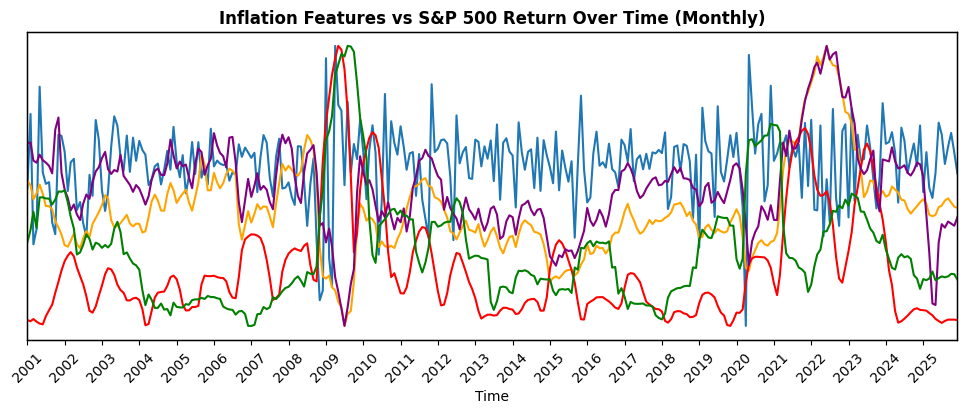
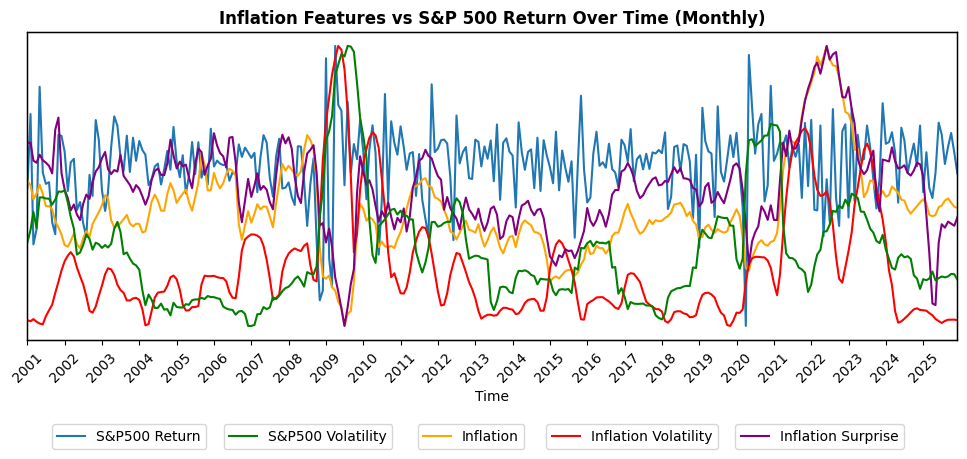
Amended format

Changed region(s): [[0.0, 0.0, 0.9928, 0.9855], [0.5895, 0.2029, 0.6205, 0.2319]]

diff --git a/docs/Scripts/Analysis.html b/docs/Scripts/Analysis.html
@@ -458,45 +458,46 @@ numpy: 2.4.4</code></pre>
 </div>
 </div>
 </div>
-<div id="09360ec7" class="cell" data-execution_count="261">
+<div id="09360ec7" class="cell" data-execution_count="31">
 <div class="code-copy-outer-scaffold"><div class="sourceCode cell-code" id="cb10"><pre class="sourceCode python code-with-copy"><code class="sourceCode python"><span id="cb10-1"><a href="#cb10-1" aria-hidden="true" tabindex="-1"></a><span class="co">#Time series comparing all previously mentioned components of inflation over time on a monthly basis</span></span>
 <span id="cb10-2"><a href="#cb10-2" aria-hidden="true" tabindex="-1"></a>plt.figure(figsize<span class="op">=</span>(<span class="dv">12</span>,<span class="dv">4</span>))</span>
 <span id="cb10-3"><a href="#cb10-3" aria-hidden="true" tabindex="-1"></a>ax1 <span class="op">=</span> sns.lineplot(x<span class="op">=</span>df.index, y<span class="op">=</span>df.SP500_monthly_return, label <span class="op">=</span> <span class="st">"S&amp;P500 Return"</span>) <span class="co">#plots S&amp;P500 return over time</span></span>
 <span id="cb10-4"><a href="#cb10-4" aria-hidden="true" tabindex="-1"></a>ax1.grid(<span class="va">False</span>) <span class="co">#Removes grid lines</span></span>
 <span id="cb10-5"><a href="#cb10-5" aria-hidden="true" tabindex="-1"></a>ax1.set_ylabel(<span class="st">""</span>) <span class="co">#Removes y axis label</span></span>
 <span id="cb10-6"><a href="#cb10-6" aria-hidden="true" tabindex="-1"></a>ax1.set_yticks([]) <span class="co">#removes y axis ticks since multiple y axis are being used</span></span>
-<span id="cb10-7"><a href="#cb10-7" aria-hidden="true" tabindex="-1"></a>ax1.legend().set_visible(<span class="va">False</span>)</span>
-<span id="cb10-8"><a href="#cb10-8" aria-hidden="true" tabindex="-1"></a>ax2 <span class="op">=</span> ax1.twinx() <span class="co"># allows me to add another y axis</span></span>
-<span id="cb10-9"><a href="#cb10-9" aria-hidden="true" tabindex="-1"></a>sns.lineplot(x<span class="op">=</span>df.index, y<span class="op">=</span>df.YOY_inflation, ax<span class="op">=</span>ax2, color<span class="op">=</span><span class="st">"orange"</span>, label <span class="op">=</span> <span class="st">"Inflation"</span>) <span class="co">#plots inflation level over time</span></span>
-<span id="cb10-10"><a href="#cb10-10" aria-hidden="true" tabindex="-1"></a>ax2.grid(<span class="va">False</span>)</span>
-<span id="cb10-11"><a href="#cb10-11" aria-hidden="true" tabindex="-1"></a>ax2.set_ylabel(<span class="st">""</span>)</span>
-<span id="cb10-12"><a href="#cb10-12" aria-hidden="true" tabindex="-1"></a>ax2.set_yticks([])</span>
-<span id="cb10-13"><a href="#cb10-13" aria-hidden="true" tabindex="-1"></a>ax2.legend().set_visible(<span class="va">False</span>)</span>
-<span id="cb10-14"><a href="#cb10-14" aria-hidden="true" tabindex="-1"></a>ax3 <span class="op">=</span> ax2.twinx()</span>
-<span id="cb10-15"><a href="#cb10-15" aria-hidden="true" tabindex="-1"></a>sns.lineplot(x<span class="op">=</span>df.index, y<span class="op">=</span>df.Inflation_volatility, ax<span class="op">=</span>ax3, color<span class="op">=</span><span class="st">"red"</span>, label <span class="op">=</span> <span class="st">"Inflation Volatility"</span>) <span class="co">#plots inflation volatility over time</span></span>
-<span id="cb10-16"><a href="#cb10-16" aria-hidden="true" tabindex="-1"></a>ax3.grid(<span class="va">False</span>)</span>
-<span id="cb10-17"><a href="#cb10-17" aria-hidden="true" tabindex="-1"></a>ax3.set_ylabel(<span class="st">""</span>)</span>
-<span id="cb10-18"><a href="#cb10-18" aria-hidden="true" tabindex="-1"></a>ax3.set_yticks([])</span>
-<span id="cb10-19"><a href="#cb10-19" aria-hidden="true" tabindex="-1"></a>ax3.legend().set_visible(<span class="va">False</span>)</span>
-<span id="cb10-20"><a href="#cb10-20" aria-hidden="true" tabindex="-1"></a>ax4 <span class="op">=</span> ax3.twinx()</span>
-<span id="cb10-21"><a href="#cb10-21" aria-hidden="true" tabindex="-1"></a>sns.lineplot(x<span class="op">=</span>df.index, y<span class="op">=</span>df.Inflation_surprise, ax<span class="op">=</span>ax4, color<span class="op">=</span><span class="st">"purple"</span>, label <span class="op">=</span> <span class="st">"Inflation Surprise"</span>) <span class="co">#plots inflation suprise over time</span></span>
-<span id="cb10-22"><a href="#cb10-22" aria-hidden="true" tabindex="-1"></a>ax4.grid(<span class="va">False</span>)</span>
-<span id="cb10-23"><a href="#cb10-23" aria-hidden="true" tabindex="-1"></a>ax4.set_ylabel(<span class="st">""</span>)</span>
-<span id="cb10-24"><a href="#cb10-24" aria-hidden="true" tabindex="-1"></a>ax4.set_yticks([])</span>
-<span id="cb10-25"><a href="#cb10-25" aria-hidden="true" tabindex="-1"></a>ax4.legend().set_visible(<span class="va">False</span>)</span>
-<span id="cb10-26"><a href="#cb10-26" aria-hidden="true" tabindex="-1"></a>ax5 <span class="op">=</span> ax4.twinx()</span>
-<span id="cb10-27"><a href="#cb10-27" aria-hidden="true" tabindex="-1"></a>sns.lineplot(x<span class="op">=</span>df.index, y<span class="op">=</span>df.SP500_volatility, ax<span class="op">=</span>ax5, color<span class="op">=</span><span class="st">"green"</span>, label <span class="op">=</span> <span class="st">"S&amp;P500 Volatility"</span>) <span class="co">#plots inflation suprise over time</span></span>
-<span id="cb10-28"><a href="#cb10-28" aria-hidden="true" tabindex="-1"></a>ax5.grid(<span class="va">False</span>)</span>
-<span id="cb10-29"><a href="#cb10-29" aria-hidden="true" tabindex="-1"></a>ax5.set_ylabel(<span class="st">""</span>)</span>
-<span id="cb10-30"><a href="#cb10-30" aria-hidden="true" tabindex="-1"></a>ax5.set_yticks([])</span>
-<span id="cb10-31"><a href="#cb10-31" aria-hidden="true" tabindex="-1"></a>ax5.legend().set_visible(<span class="va">False</span>)</span>
-<span id="cb10-32"><a href="#cb10-32" aria-hidden="true" tabindex="-1"></a>plt.gca().xaxis.set_major_locator(mdates.YearLocator(base<span class="op">=</span><span class="dv">1</span>)) <span class="co">#sets x axis ticks to be yearly</span></span>
-<span id="cb10-33"><a href="#cb10-33" aria-hidden="true" tabindex="-1"></a>ax1.tick_params(axis<span class="op">=</span><span class="st">'x'</span>, rotation<span class="op">=</span><span class="dv">45</span>)</span>
-<span id="cb10-34"><a href="#cb10-34" aria-hidden="true" tabindex="-1"></a>ax1.set_xlabel(<span class="st">"Time"</span>)</span>
-<span id="cb10-35"><a href="#cb10-35" aria-hidden="true" tabindex="-1"></a>plt.title(<span class="st">"Inflation Features vs S&amp;P 500 Return Over Time (Monthly)"</span>, weight<span class="op">=</span><span class="st">"bold"</span>)</span>
-<span id="cb10-36"><a href="#cb10-36" aria-hidden="true" tabindex="-1"></a>ax1.set_xlim(df.index.<span class="bu">min</span>(), df.index.<span class="bu">max</span>()) <span class="co">#makes it so no white space is after y axis</span></span>
-<span id="cb10-37"><a href="#cb10-37" aria-hidden="true" tabindex="-1"></a>plt.savefig(<span class="st">"../Outputs/figures/combined_timeseries_monthly.png"</span>, dpi<span class="op">=</span><span class="dv">300</span>, bbox_inches<span class="op">=</span><span class="st">'tight'</span>)</span>
-<span id="cb10-38"><a href="#cb10-38" aria-hidden="true" tabindex="-1"></a>plt.show()</span></code></pre></div><button title="Copy to Clipboard" class="code-copy-button"><i class="bi"></i></button></div>
+<span id="cb10-7"><a href="#cb10-7" aria-hidden="true" tabindex="-1"></a>ax2 <span class="op">=</span> ax1.twinx() <span class="co"># allows me to add another y axis</span></span>
+<span id="cb10-8"><a href="#cb10-8" aria-hidden="true" tabindex="-1"></a>sns.lineplot(x<span class="op">=</span>df.index, y<span class="op">=</span>df.YOY_inflation, ax<span class="op">=</span>ax2, color<span class="op">=</span><span class="st">"orange"</span>, label <span class="op">=</span> <span class="st">"Inflation"</span>) <span class="co">#plots inflation level over time</span></span>
+<span id="cb10-9"><a href="#cb10-9" aria-hidden="true" tabindex="-1"></a>ax2.grid(<span class="va">False</span>)</span>
+<span id="cb10-10"><a href="#cb10-10" aria-hidden="true" tabindex="-1"></a>ax2.set_ylabel(<span class="st">""</span>)</span>
+<span id="cb10-11"><a href="#cb10-11" aria-hidden="true" tabindex="-1"></a>ax2.set_yticks([])</span>
+<span id="cb10-12"><a href="#cb10-12" aria-hidden="true" tabindex="-1"></a>ax3 <span class="op">=</span> ax2.twinx()</span>
+<span id="cb10-13"><a href="#cb10-13" aria-hidden="true" tabindex="-1"></a>sns.lineplot(x<span class="op">=</span>df.index, y<span class="op">=</span>df.Inflation_volatility, ax<span class="op">=</span>ax3, color<span class="op">=</span><span class="st">"red"</span>, label <span class="op">=</span> <span class="st">"Inflation Volatility"</span>) <span class="co">#plots inflation volatility over time</span></span>
+<span id="cb10-14"><a href="#cb10-14" aria-hidden="true" tabindex="-1"></a>ax3.grid(<span class="va">False</span>)</span>
+<span id="cb10-15"><a href="#cb10-15" aria-hidden="true" tabindex="-1"></a>ax3.set_ylabel(<span class="st">""</span>)</span>
+<span id="cb10-16"><a href="#cb10-16" aria-hidden="true" tabindex="-1"></a>ax3.set_yticks([])</span>
+<span id="cb10-17"><a href="#cb10-17" aria-hidden="true" tabindex="-1"></a>ax4 <span class="op">=</span> ax3.twinx()</span>
+<span id="cb10-18"><a href="#cb10-18" aria-hidden="true" tabindex="-1"></a>sns.lineplot(x<span class="op">=</span>df.index, y<span class="op">=</span>df.Inflation_surprise, ax<span class="op">=</span>ax4, color<span class="op">=</span><span class="st">"purple"</span>, label <span class="op">=</span> <span class="st">"Inflation Surprise"</span>) <span class="co">#plots inflation suprise over time</span></span>
+<span id="cb10-19"><a href="#cb10-19" aria-hidden="true" tabindex="-1"></a>ax4.grid(<span class="va">False</span>)</span>
+<span id="cb10-20"><a href="#cb10-20" aria-hidden="true" tabindex="-1"></a>ax4.set_ylabel(<span class="st">""</span>)</span>
+<span id="cb10-21"><a href="#cb10-21" aria-hidden="true" tabindex="-1"></a>ax4.set_yticks([])</span>
+<span id="cb10-22"><a href="#cb10-22" aria-hidden="true" tabindex="-1"></a>ax5 <span class="op">=</span> ax4.twinx()</span>
+<span id="cb10-23"><a href="#cb10-23" aria-hidden="true" tabindex="-1"></a>sns.lineplot(x<span class="op">=</span>df.index, y<span class="op">=</span>df.SP500_volatility, ax<span class="op">=</span>ax5, color<span class="op">=</span><span class="st">"green"</span>, label <span class="op">=</span> <span class="st">"S&amp;P500 Volatility"</span>) <span class="co">#plots inflation suprise over time</span></span>
+<span id="cb10-24"><a href="#cb10-24" aria-hidden="true" tabindex="-1"></a>ax5.grid(<span class="va">False</span>)</span>
+<span id="cb10-25"><a href="#cb10-25" aria-hidden="true" tabindex="-1"></a>ax5.set_ylabel(<span class="st">""</span>)</span>
+<span id="cb10-26"><a href="#cb10-26" aria-hidden="true" tabindex="-1"></a>ax5.set_yticks([])</span>
+<span id="cb10-27"><a href="#cb10-27" aria-hidden="true" tabindex="-1"></a>plt.gca().xaxis.set_major_locator(mdates.YearLocator(base<span class="op">=</span><span class="dv">1</span>)) <span class="co">#sets x axis ticks to be yearly</span></span>
+<span id="cb10-28"><a href="#cb10-28" aria-hidden="true" tabindex="-1"></a>ax1.tick_params(axis<span class="op">=</span><span class="st">'x'</span>, rotation<span class="op">=</span><span class="dv">45</span>)</span>
+<span id="cb10-29"><a href="#cb10-29" aria-hidden="true" tabindex="-1"></a>ax1.set_xlabel(<span class="st">"Time"</span>)</span>
+<span id="cb10-30"><a href="#cb10-30" aria-hidden="true" tabindex="-1"></a>plt.title(<span class="st">"Inflation Features vs S&amp;P 500 Return Over Time (Monthly)"</span>, weight<span class="op">=</span><span class="st">"bold"</span>)</span>
+<span id="cb10-31"><a href="#cb10-31" aria-hidden="true" tabindex="-1"></a><span class="co">#positions the legends in specific position:</span></span>
+<span id="cb10-32"><a href="#cb10-32" aria-hidden="true" tabindex="-1"></a>ax1.legend(bbox_to_anchor<span class="op">=</span>(<span class="fl">0.2</span>, <span class="op">-</span><span class="fl">0.25</span>))</span>
+<span id="cb10-33"><a href="#cb10-33" aria-hidden="true" tabindex="-1"></a>ax5.legend(bbox_to_anchor<span class="op">=</span>(<span class="fl">0.4</span>, <span class="op">-</span><span class="fl">0.25</span>))</span>
+<span id="cb10-34"><a href="#cb10-34" aria-hidden="true" tabindex="-1"></a>ax2.legend(bbox_to_anchor<span class="op">=</span>(<span class="fl">0.542</span>, <span class="op">-</span><span class="fl">0.25</span>))</span>
+<span id="cb10-35"><a href="#cb10-35" aria-hidden="true" tabindex="-1"></a>ax3.legend(bbox_to_anchor<span class="op">=</span>(<span class="fl">0.75</span>, <span class="op">-</span><span class="fl">0.25</span>))</span>
+<span id="cb10-36"><a href="#cb10-36" aria-hidden="true" tabindex="-1"></a>ax4.legend(bbox_to_anchor<span class="op">=</span>(<span class="fl">0.95</span>, <span class="op">-</span><span class="fl">0.25</span>))</span>
+<span id="cb10-37"><a href="#cb10-37" aria-hidden="true" tabindex="-1"></a>ax1.set_xlim(df.index.<span class="bu">min</span>(), df.index.<span class="bu">max</span>()) <span class="co">#makes it so no white space is after y axis</span></span>
+<span id="cb10-38"><a href="#cb10-38" aria-hidden="true" tabindex="-1"></a>plt.savefig(<span class="st">"../Outputs/figures/combined_timeseries_monthly.png"</span>, dpi<span class="op">=</span><span class="dv">300</span>, bbox_inches<span class="op">=</span><span class="st">'tight'</span>)</span>
+<span id="cb10-39"><a href="#cb10-39" aria-hidden="true" tabindex="-1"></a>plt.show()</span></code></pre></div><button title="Copy to Clipboard" class="code-copy-button"><i class="bi"></i></button></div>
 <div class="cell-output cell-output-display">
 <div>
 <figure class="figure">
@@ -505,7 +506,7 @@ numpy: 2.4.4</code></pre>
 </div>
 </div>
 </div>
-<div id="[phone redacted]" class="cell" data-execution_count="262">
+<div id="[phone redacted]" class="cell">
 <div class="code-copy-outer-scaffold"><div class="sourceCode cell-code" id="cb11"><pre class="sourceCode python code-with-copy"><code class="sourceCode python"><span id="cb11-1"><a href="#cb11-1" aria-hidden="true" tabindex="-1"></a><span class="co">#Time series comparing all previously mentioned components of inflation over time on a yearly basis</span></span>
 <span id="cb11-2"><a href="#cb11-2" aria-hidden="true" tabindex="-1"></a>df_yearly <span class="op">=</span> df.resample(<span class="st">'YE'</span>).mean() <span class="co">#Decided to resample data to yearly data points since monthly values made the graph very cluttered</span></span>
 <span id="cb11-3"><a href="#cb11-3" aria-hidden="true" tabindex="-1"></a>plt.figure(figsize<span class="op">=</span>(<span class="dv">12</span>,<span class="dv">4</span>))</span>
@@ -538,11 +539,11 @@ numpy: 2.4.4</code></pre>
 <span id="cb11-30"><a href="#cb11-30" aria-hidden="true" tabindex="-1"></a>ax1.set_xlabel(<span class="st">"Time"</span>)</span>
 <span id="cb11-31"><a href="#cb11-31" aria-hidden="true" tabindex="-1"></a>plt.title(<span class="st">"Inflation Features vs S&amp;P 500 Return Over Time (yearly)"</span>, weight<span class="op">=</span><span class="st">"bold"</span>)</span>
 <span id="cb11-32"><a href="#cb11-32" aria-hidden="true" tabindex="-1"></a><span class="co">#positions the legends in specific position:</span></span>
-<span id="cb11-33"><a href="#cb11-33" aria-hidden="true" tabindex="-1"></a>ax1.legend(bbox_to_anchor<span class="op">=</span>(<span class="fl">0.2</span>, <span class="op">-</span><span class="fl">0.25</span>))   <span class="co"># 1st</span></span>
-<span id="cb11-34"><a href="#cb11-34" aria-hidden="true" tabindex="-1"></a>ax5.legend(bbox_to_anchor<span class="op">=</span>(<span class="fl">0.4</span>, <span class="op">-</span><span class="fl">0.25</span>))   <span class="co"># 2nd</span></span>
-<span id="cb11-35"><a href="#cb11-35" aria-hidden="true" tabindex="-1"></a>ax2.legend(bbox_to_anchor<span class="op">=</span>(<span class="fl">0.542</span>, <span class="op">-</span><span class="fl">0.25</span>))   <span class="co"># 3rd</span></span>
-<span id="cb11-36"><a href="#cb11-36" aria-hidden="true" tabindex="-1"></a>ax3.legend(bbox_to_anchor<span class="op">=</span>(<span class="fl">0.75</span>, <span class="op">-</span><span class="fl">0.25</span>))   <span class="co"># 4th</span></span>
-<span id="cb11-37"><a href="#cb11-37" aria-hidden="true" tabindex="-1"></a>ax4.legend(bbox_to_anchor<span class="op">=</span>(<span class="fl">0.95</span>, <span class="op">-</span><span class="fl">0.25</span>))   <span class="co"># 5th</span></span>
+<span id="cb11-33"><a href="#cb11-33" aria-hidden="true" tabindex="-1"></a>ax1.legend(bbox_to_anchor<span class="op">=</span>(<span class="fl">0.2</span>, <span class="op">-</span><span class="fl">0.25</span>))</span>
+<span id="cb11-34"><a href="#cb11-34" aria-hidden="true" tabindex="-1"></a>ax5.legend(bbox_to_anchor<span class="op">=</span>(<span class="fl">0.4</span>, <span class="op">-</span><span class="fl">0.25</span>))</span>
+<span id="cb11-35"><a href="#cb11-35" aria-hidden="true" tabindex="-1"></a>ax2.legend(bbox_to_anchor<span class="op">=</span>(<span class="fl">0.542</span>, <span class="op">-</span><span class="fl">0.25</span>))</span>
+<span id="cb11-36"><a href="#cb11-36" aria-hidden="true" tabindex="-1"></a>ax3.legend(bbox_to_anchor<span class="op">=</span>(<span class="fl">0.75</span>, <span class="op">-</span><span class="fl">0.25</span>))</span>
+<span id="cb11-37"><a href="#cb11-37" aria-hidden="true" tabindex="-1"></a>ax4.legend(bbox_to_anchor<span class="op">=</span>(<span class="fl">0.95</span>, <span class="op">-</span><span class="fl">0.25</span>))</span>
 <span id="cb11-38"><a href="#cb11-38" aria-hidden="true" tabindex="-1"></a>ax1.set_xlim(df_yearly.index.<span class="bu">min</span>(), df_yearly.index.<span class="bu">max</span>())</span>
 <span id="cb11-39"><a href="#cb11-39" aria-hidden="true" tabindex="-1"></a>plt.savefig(<span class="st">"../Outputs/figures/combined_timeseries_yearly.png"</span>, dpi<span class="op">=</span><span class="dv">300</span>, bbox_inches<span class="op">=</span><span class="st">'tight'</span>)</span>
 <span id="cb11-40"><a href="#cb11-40" aria-hidden="true" tabindex="-1"></a></span>

diff --git a/docs/index.html b/docs/index.html
@@ -370,7 +370,7 @@ R_t = \alpha + \beta_1 \pi_{t-1} + \beta_2 \sigma^{\pi}_{t-1} + \beta_3 S_{t-1} 
 \sigma^{SP500}_t = \alpha + \beta_1 \pi_t + \beta_2 \sigma^{\pi}_t + \beta_3 S_t + \beta_4 \pi_t^2 + \beta_5 S_t^2 + u_t
 \]</span></p>
 <p>As seen in <em>Figure 4</em>, this model explains 36.2% of the variation in monthly S&amp;P500 volatility, a significantly stronger result than the models relating inflation metrics to S&amp;P500 returns. All variables were statistically significant except the squared inflation surprise term. The model suggests that inflation volatility and inflation surprise both have a statistically significant positive correlation with S&amp;P500 volatility, where a 1 standard deviation (SD) increase in either metric is associated with a 0.79 SD increase in S&amp;P500 volatility. Conversely inflation has a statistically significant negative relationship with S&amp;P500 volatility, where a 1 SD increase in inflation is associated with a 1.50 SD decrease in S&amp;P500 volatility.</p>
-<div id="02d9da1a" class="cell" data-execution_count="1">
+<div id="cace89f6" class="cell" data-execution_count="1">
 <div class="cell-output cell-output-stdout">
 <pre><code>                  Results: Ordinary least squares
 ====================================================================
@@ -406,7 +406,7 @@ Notes:
 \sigma^{SP500}_t = \alpha + \beta_1 \pi_{t-1} + \beta_2 \sigma^{\pi}_{t-1} + \beta_3 S_{t-1} + u_t
 \]</span></p>
 <p>Replacing lagged inflation variables in the model yeilds substantially different results, as shown in <em>Figure 5</em>. Inflation surprise is no longer statistically significant, the magnitude of the effect of inflation is reduced to -0.79 SD and the effect of inflation volatility increases to 1.00 SD.</p>
-<div id="80e1dab9" class="cell" data-execution_count="2">
+<div id="3958fff3" class="cell" data-execution_count="2">
 <div class="cell-output cell-output-stdout">
 <pre><code>                  Results: Ordinary least squares
 ====================================================================
@@ -448,7 +448,7 @@ Notes:
 \sigma^{SP500}_t = \alpha + \beta_1 \pi^{std}_t + \beta_2 (\sigma^{\pi}_t)^{std} + \beta_3\left( \pi^{std}_t \cdot (\sigma^{\pi}_t)^{std} \right)+ u_t
 \]</span></p>
 <p>Similar to the previous models, as seen in Figure 6 this model shows a strong and statistically significant positive relationship between inflation volatility and S&amp;P500 volatility. The interaction term between inflation and inflation volatility is negative and also statistically significant. However, importantly inflation is now statistically insignificant with a p-value of 0.58.</p>
-<div id="b258049a" class="cell" data-execution_count="3">
+<div id="ab182566" class="cell" data-execution_count="3">
 <div class="cell-output cell-output-stdout">
 <pre><code>                   Results: Ordinary least squares
 ======================================================================
@@ -483,7 +483,7 @@ Notes:
 \sigma^{SP500}_t = \alpha + \beta_1 (\sigma^{SP500}_{t-1})^{std} + \beta_2 \pi^{std}_t + \beta_3 (\sigma^{\pi}_t)^{std} + \beta_4 S^{std}_t + u_t
 \]</span></p>
 <p>The inclusion of past S&amp;P500 volatility in the model produces an interesting result. As seen in Figure 7, the model yields a very high R-squared (0.938), yet the relationship of inflation, inflation volatility and inflation surprise to S&amp;P500 volatility all become statistically insignificant (p-values: 0.433, 0.128, 0.408 respectively).</p>
-<div id="b42baf31" class="cell" data-execution_count="4">
+<div id="1b29e457" class="cell" data-execution_count="4">
 <div class="cell-output cell-output-stdout">
 <pre><code>                  Results: Ordinary least squares
 ====================================================================